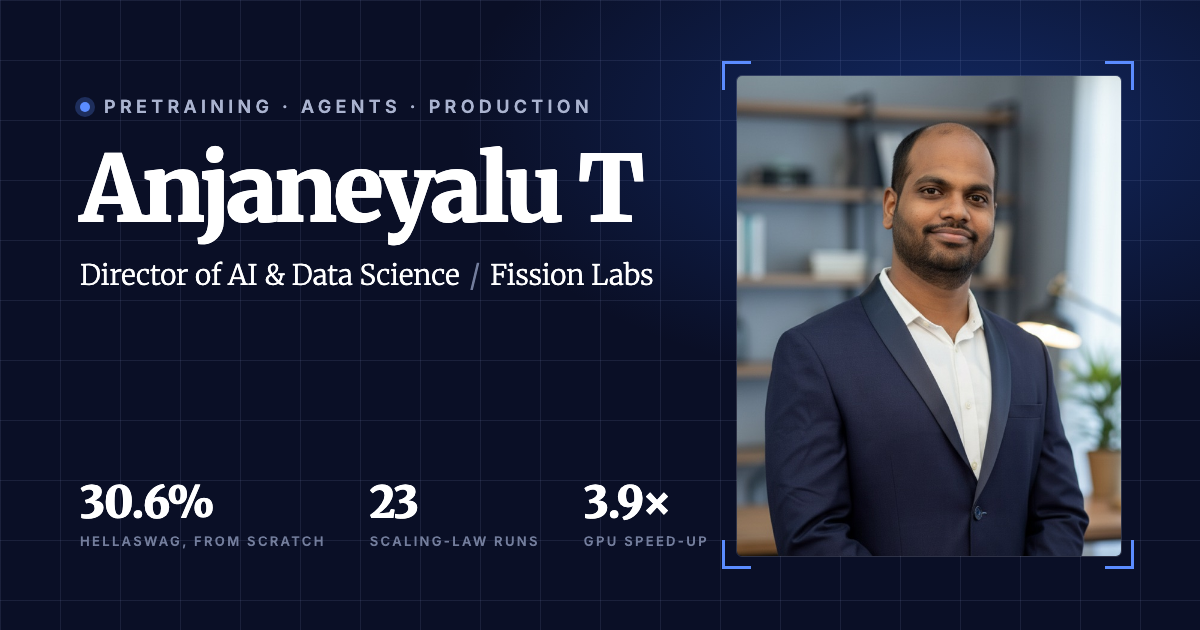
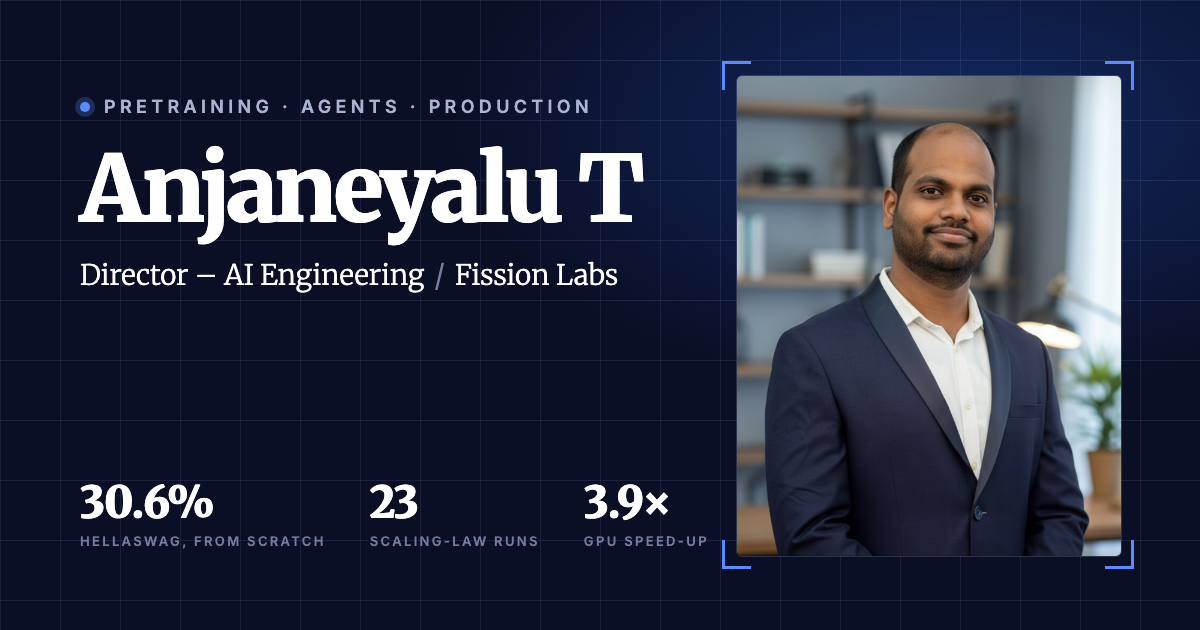
Title: Director – AI Engineering, to match LinkedIn

Changed region(s): [[0.1542, 0.4222, 0.555, 0.4825]]

diff --git a/index.html b/index.html
@@ -6,8 +6,8 @@
 
   <!-- ===== SEO ===== -->
   <!-- When you connect a custom domain, replace every https://anjaneyaluaj.github.io/ below with it. -->
-  <title>Anjaneyalu T — AI &amp; Data Science Leader</title>
-  <meta name="description" content="Anjaneyalu T, Director of AI and Data Science at Fission Labs. Production multi-agent systems, LLM pretraining from scratch, scaling-law experiments, and engineering leadership. Hyderabad, India.">
+  <title>Anjaneyalu T — Director, AI Engineering</title>
+  <meta name="description" content="Anjaneyalu T, Director – AI Engineering at Fission Labs. Production multi-agent systems, LLM pretraining from scratch, scaling-law experiments, and engineering leadership. Hyderabad, India.">
   <meta name="author" content="Anjaneyalu T">
   <meta name="keywords" content="Anjaneyalu T, Anjaneyalu Thippaiah, AI, LLM, pretraining, GPT-2, scaling laws, multi-agent systems, Fission Labs, Hyderabad">
   <meta name="robots" content="index, follow">
@@ -17,16 +17,16 @@
   <!-- ===== OpenGraph (LinkedIn, Slack, WhatsApp) ===== -->
   <meta property="og:type" content="profile">
   <meta property="og:site_name" content="Anjaneyalu T">
-  <meta property="og:title" content="Anjaneyalu T — AI &amp; Data Science Leader">
-  <meta property="og:description" content="Production multi-agent systems, LLMs pretrained from scratch, and the engineering teams that ship them. Director of AI and Data Science at Fission Labs.">
+  <meta property="og:title" content="Anjaneyalu T — Director, AI Engineering">
+  <meta property="og:description" content="Production multi-agent systems, LLMs pretrained from scratch, and the engineering teams that ship them. Director – AI Engineering at Fission Labs.">
   <meta property="og:url" content="https://anjaneyaluaj.github.io/">
   <meta property="og:image" content="https://anjaneyaluaj.github.io/assets/og-image.png">
   <meta property="og:image:width" content="1200">
   <meta property="og:image:height" content="630">
-  <meta property="og:image:alt" content="Anjaneyalu T — Director of AI and Data Science">
+  <meta property="og:image:alt" content="Anjaneyalu T — Director, AI Engineering">
   <meta property="profile:first_name" content="Anjaneyalu">
   <meta name="twitter:card" content="summary_large_image">
-  <meta name="twitter:title" content="Anjaneyalu T — AI &amp; Data Science Leader">
+  <meta name="twitter:title" content="Anjaneyalu T — Director, AI Engineering">
   <meta name="twitter:description" content="Production multi-agent systems, LLMs pretrained from scratch, and the engineering teams that ship them.">
   <meta name="twitter:image" content="https://anjaneyaluaj.github.io/assets/og-image.png">
 
@@ -37,7 +37,7 @@
     "@type": "Person",
     "name": "Anjaneyalu T",
     "alternateName": "Anjaneyalu Thippaiah",
-    "jobTitle": "Director of AI and Data Science",
+    "jobTitle": "Director – AI Engineering",
     "worksFor": { "@type": "Organization", "name": "Fission Labs" },
     "address": { "@type": "PostalAddress", "addressLocality": "Hyderabad", "addressCountry": "IN" },
     "alumniOf": { "@type": "CollegeOrUniversity", "name": "The University of Texas at Austin" },
@@ -118,7 +118,7 @@
           </div>
           <h1>Anjaneyalu T</h1>
           <p class="roles">
-            <span>Director of AI &amp; Data Science</span><span class="slash">/</span>
+            <span>Director – AI Engineering</span><span class="slash">/</span>
             <span>Fission Labs</span><span class="slash">/</span>
             <span>Speaker</span>
           </p>
@@ -176,7 +176,7 @@
         <div class="sec-title">
           <h2>From research code to production systems</h2>
           <p>
-            I lead an AI and data science practice that takes agentic systems from proof of concept to production
+            I lead an AI engineering practice that takes agentic systems from proof of concept to production
             for enterprise clients. Outside the day job I write the training code myself.
           </p>
         </div>

diff --git a/tools/og-image.html b/tools/og-image.html
@@ -28,7 +28,7 @@
   <div class="text">
     <div class="eyebrow"><i></i>Pretraining · Agents · Production</div>
     <h1>Anjaneyalu T</h1>
-    <div class="role">Director of AI &amp; Data Science<span>/</span>Fission Labs</div>
+    <div class="role">Director – AI Engineering<span>/</span>Fission Labs</div>
   </div>
   <div class="stats">
     <div class="stat"><b>30.6%</b><small>HellaSwag, from scratch</small></div>
